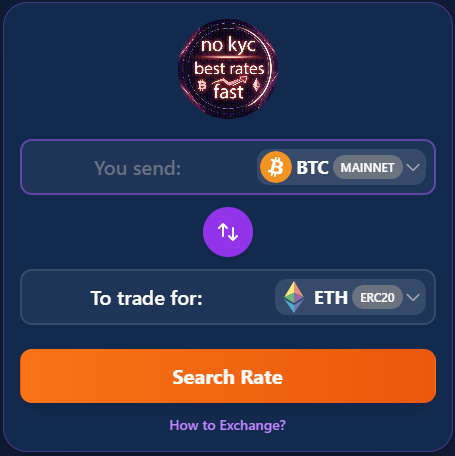
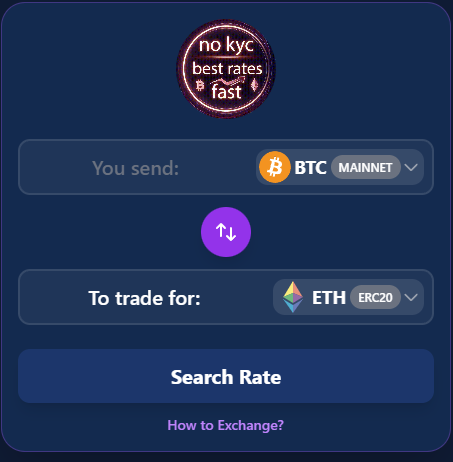
change color

diff --git a/src/components/ExchangeForm.tsx b/src/components/ExchangeForm.tsx
@@ -374,7 +374,7 @@ const ExchangeForm = () => {
           <button
             onClick={handleConfirmExchange}
             disabled={isCreatingTransaction}
-            className="w-full bg-gradient-to-r from-orange-500 to-orange-600 hover:from-orange-600 hover:to-orange-700 text-white font-bold py-5 md:py-6 rounded-xl transition-all duration-200 disabled:opacity-50 disabled:cursor-not-allowed shadow-lg hover:shadow-orange-500/50 text-lg md:text-xl"
+            className="w-full bg-gradient-to-r from-blue-500 to-blue-600 hover:from-blue-600 hover:to-blue-700 text-white font-bold py-5 md:py-6 rounded-xl transition-all duration-200 disabled:opacity-50 disabled:cursor-not-allowed shadow-lg hover:shadow-blue-500/50 text-lg md:text-xl"
           >
             {isCreatingTransaction ? (
               <span className="flex items-center justify-center gap-2">
@@ -508,7 +508,7 @@ const ExchangeForm = () => {
         <button
           onClick={handleSearchRates}
           disabled={isLoadingRates}
-          className="w-full bg-gradient-to-r mt-3 from-orange-500 to-orange-600 hover:from-orange-600 hover:to-orange-700 text-white font-bold py-3 rounded-xl transition-all duration-200 disabled:opacity-50 disabled:cursor-not-allowed shadow-lg hover:shadow-orange-500/50 text-lg md:text-xl"
+          className="w-full bg-gradient-to-r mt-3 from-blue-500 to-blue-600 hover:from-blue-600 hover:to-blue-700 text-white font-bold py-3 rounded-xl transition-all duration-200 disabled:opacity-50 disabled:cursor-not-allowed shadow-lg hover:shadow-blue-500/50 text-lg md:text-xl"
         >
           {isLoadingRates ? (
             <span className="flex items-center justify-center gap-2">
@@ -541,10 +541,10 @@ const ExchangeForm = () => {
         {/* How to Exchange Link */}
         <div className="flex justify-center">
           <a
-            href="#how-it-works"
+            href="#guide"
             onClick={(e) => {
               e.preventDefault();
-              const element = document.getElementById("how-it-works");
+              const element = document.getElementById("guide");
               if (element) {
                 element.scrollIntoView({ behavior: "smooth" });
               }

diff --git a/src/components/FAQ.tsx b/src/components/FAQ.tsx
@@ -425,7 +425,7 @@ const FAQ = () => {
               <Disclosure key={item.id}>
                 {({ open }) => (
                   <div className="bg-[#1a2744] border border-blue-700/30 rounded-lg mb-3 overflow-hidden">
-                    <Disclosure.Button className="w-full py-4 px-4 text-left focus:outline-none focus-visible:ring-2 focus-visible:ring-orange-500 focus-visible:ring-offset-2 focus-visible:ring-offset-gray-900 hover:bg-blue-900/20 transition-colors bg-[#0f1b34]">
+                    <Disclosure.Button className="w-full py-4 px-4 text-left focus:outline-none focus-visible:ring-2 focus-visible:ring-blue-500 focus-visible:ring-offset-2 focus-visible:ring-offset-gray-900 hover:bg-blue-900/20 transition-colors bg-[#0f1b34]">
                       <div className="relative flex items-center">
                         <div className="relative flex-1 pr-8">
                           <span className="ml-7 text-white text-base md:text-lg font-medium">

diff --git a/src/pages/ExchangePage.tsx b/src/pages/ExchangePage.tsx
@@ -325,7 +325,7 @@ const ExchangePage = () => {
           <button
             onClick={handleConfirmExchange}
             disabled={isCreatingTransaction}
-            className="w-full bg-gradient-to-r from-orange-500 to-orange-600 hover:from-orange-600 hover:to-orange-700 text-white font-bold py-5 md:py-6 rounded-xl transition-all duration-200 disabled:opacity-50 disabled:cursor-not-allowed shadow-lg hover:shadow-orange-500/50 text-lg md:text-xl"
+            className="w-full bg-gradient-to-r from-blue-500 to-blue-600 hover:from-blue-600 hover:to-blue-700 text-white font-bold py-5 md:py-6 rounded-xl transition-all duration-200 disabled:opacity-50 disabled:cursor-not-allowed shadow-lg hover:shadow-blue-500/50 text-lg md:text-xl"
           >
             {isCreatingTransaction ? (
               <span className="flex items-center justify-center gap-2">

diff --git a/index.html b/index.html
@@ -9,5 +9,22 @@
   <body>
     <div id="root"></div>
     <script type="module" src="/src/main.tsx"></script>
+    <div id="tawk_67a2562f825083258e10008e"></div>
+    <!--Start of Tawk.to Script-->
+    <script type="text/javascript">
+      var Tawk_API = Tawk_API || {},
+        Tawk_LoadStart = new Date();
+      Tawk_API.embedded = "tawk_67a2562f825083258e10008e";
+      (function () {
+        var s1 = document.createElement("script"),
+          s0 = document.getElementsByTagName("script")[0];
+        s1.async = true;
+        s1.src = "https://embed.tawk.to/67a2562f825083258e10008e/1j959g3i7";
+        s1.charset = "UTF-8";
+        s1.setAttribute("crossorigin", "*");
+        s0.parentNode.insertBefore(s1, s0);
+      })();
+    </script>
+    <!--End of Tawk.to Script-->
   </body>
 </html>

diff --git a/src/components/HowToGuide.tsx b/src/components/HowToGuide.tsx
@@ -143,7 +143,7 @@ const HowToGuide = () => {
             {/* Tabs */}
             <div className="flex justify-center">
               <Tab.Group selectedIndex={selectedTab} onChange={handleTabChange}>
-                <div className="flex justify-center">
+                {/* <div className="flex justify-center">
                   <Tab.List className="grid grid-flow-col auto-cols-fr w-full max-w-[420px] gap-0.5 bg-white/5 rounded-3xl p-0.5">
                     {tabs.map((tab) => (
                       <Tab
@@ -160,7 +160,7 @@ const HowToGuide = () => {
                       </Tab>
                     ))}
                   </Tab.List>
-                </div>
+                </div> */}
 
                 {/* Tab Panels */}
                 <Tab.Panels>
